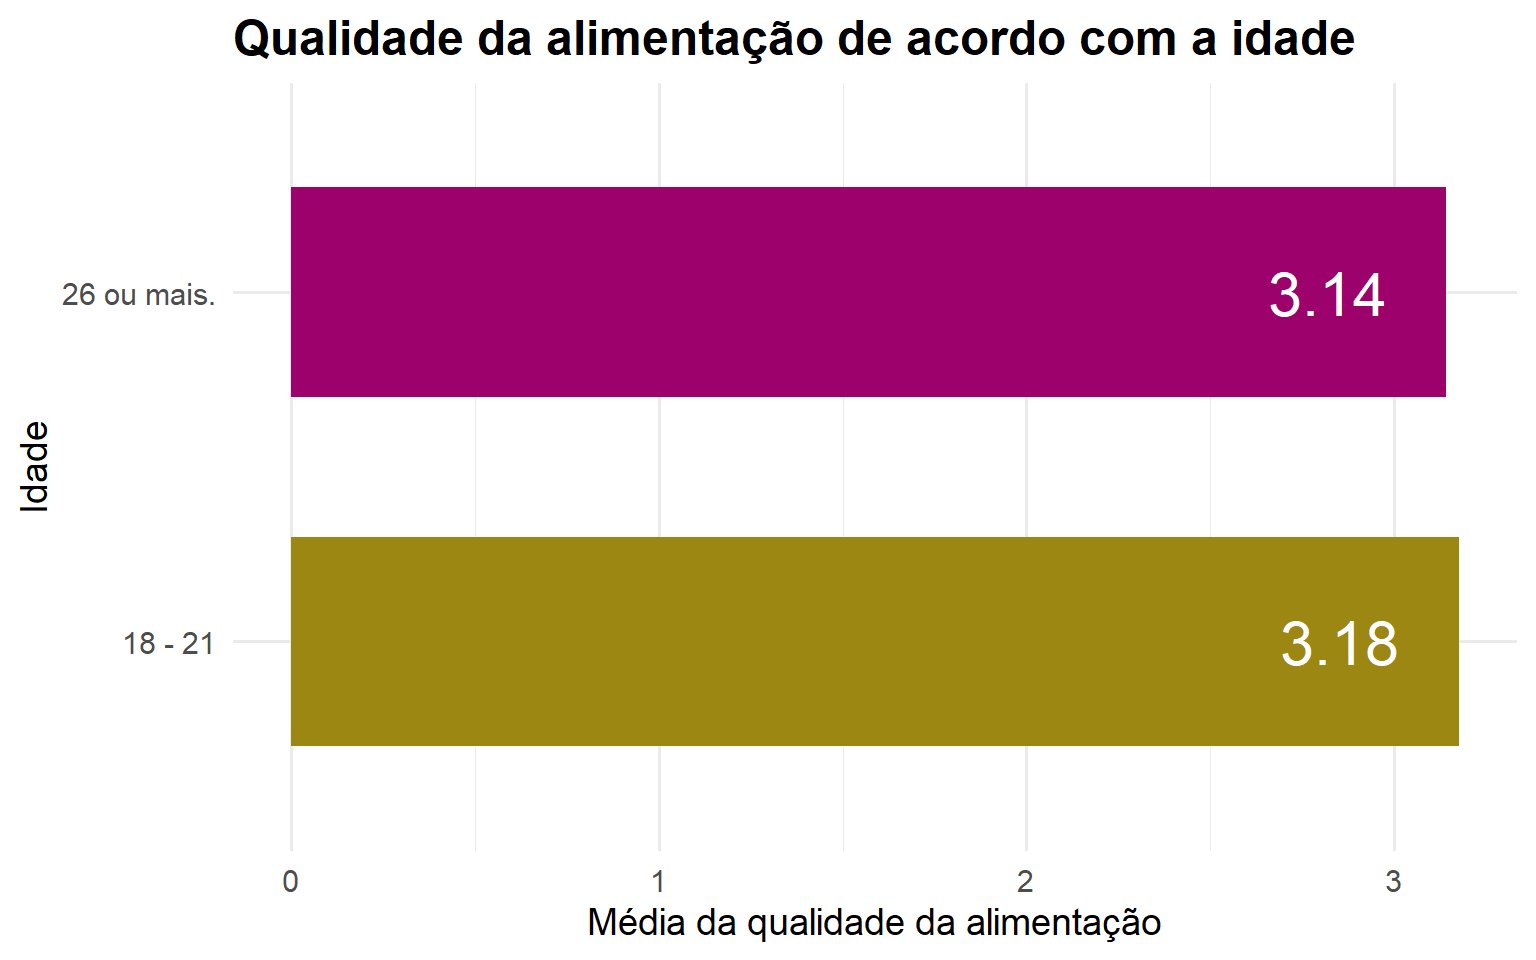
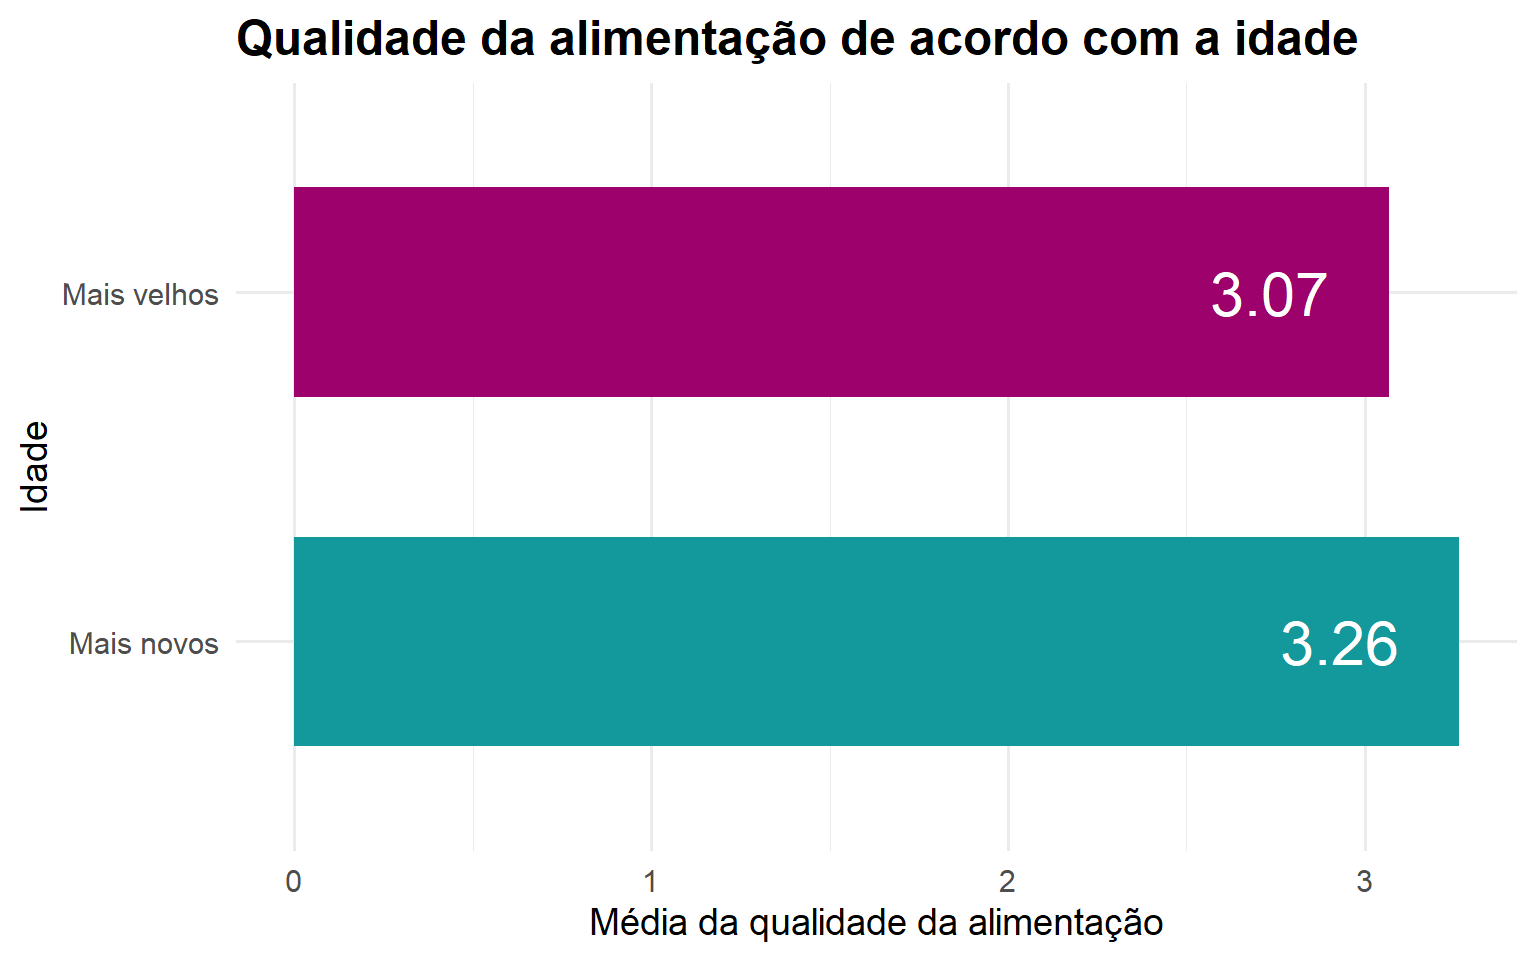
Atualizações

diff --git a/trabalho_dieta_treino/dashboard.html b/trabalho_dieta_treino/dashboard.html
@@ -513,6 +513,11 @@ grid-auto-rows: minmax(0, 1fr);">
 </div>
 <div id="idade" class="dashboard-page tab-pane grid-skip html-fill-item html-fill-container" data-orientation="rows" aria-labelledby="tab-idade">
 <div class="html-fill-item html-fill-container bslib-grid" style="display: grid; grid-template-rows: minmax(3em, max-content) 500px 500px minmax(3em, max-content) 500px 500px; grid-auto-columns: minmax(0, 1fr);">
+<!-- 
+Ideias de alterações na página da idade: 
+- Agrupar os estudantes em mais velhos (22 ou mais) e mais novos (14 a 21) nos dois primeiros gráficos 
+- Usar um gráfico no lugar das 2 tabelas na última pergunta 
+-->
 <div class="html-fill-item html-fill-container bslib-grid" style="display: grid; grid-template-columns: minmax(3em, 1fr);
 grid-auto-rows: minmax(0, 1fr);">
 <div class="card html-fill-item html-fill-container bslib-card" data-fill="false" data-bslib-card-init="" data-require-bs-caller="card()" data-full-screen="false">
@@ -545,7 +550,6 @@ grid-auto-rows: minmax(0, 1fr);">
 </div><div class="html-fill-item html-fill-container bslib-grid" style="display: grid; grid-template-rows: minmax(3em, max-content); grid-auto-columns: minmax(0, 1fr);">
 <div class="card html-fill-item html-fill-container bslib-card" data-fill="false" data-bslib-card-init="" data-require-bs-caller="card()" data-full-screen="false">
 <div class="card-body html-fill-item html-fill-container">
-<p>A resposta para essa questão é pouco conclusiva.</p>
 <p>No banco de dados coletado, são poucas as ocorrências de pessoas com a idade de 22 a 25 anos e 14 a 17 anos. Por isso, nessa visualização e nas seguintes, essas faixas etárias foram ocultadas.</p>
 <p>O restante das médias são muito similares, com pequena vantagem dos indivíduos com 26 anos ou mais.</p>
 <p>Logo, de acordo com o gráfico, <strong>os mais jovens não praticam atividades físicas por mais dias na semana</strong>.</p>